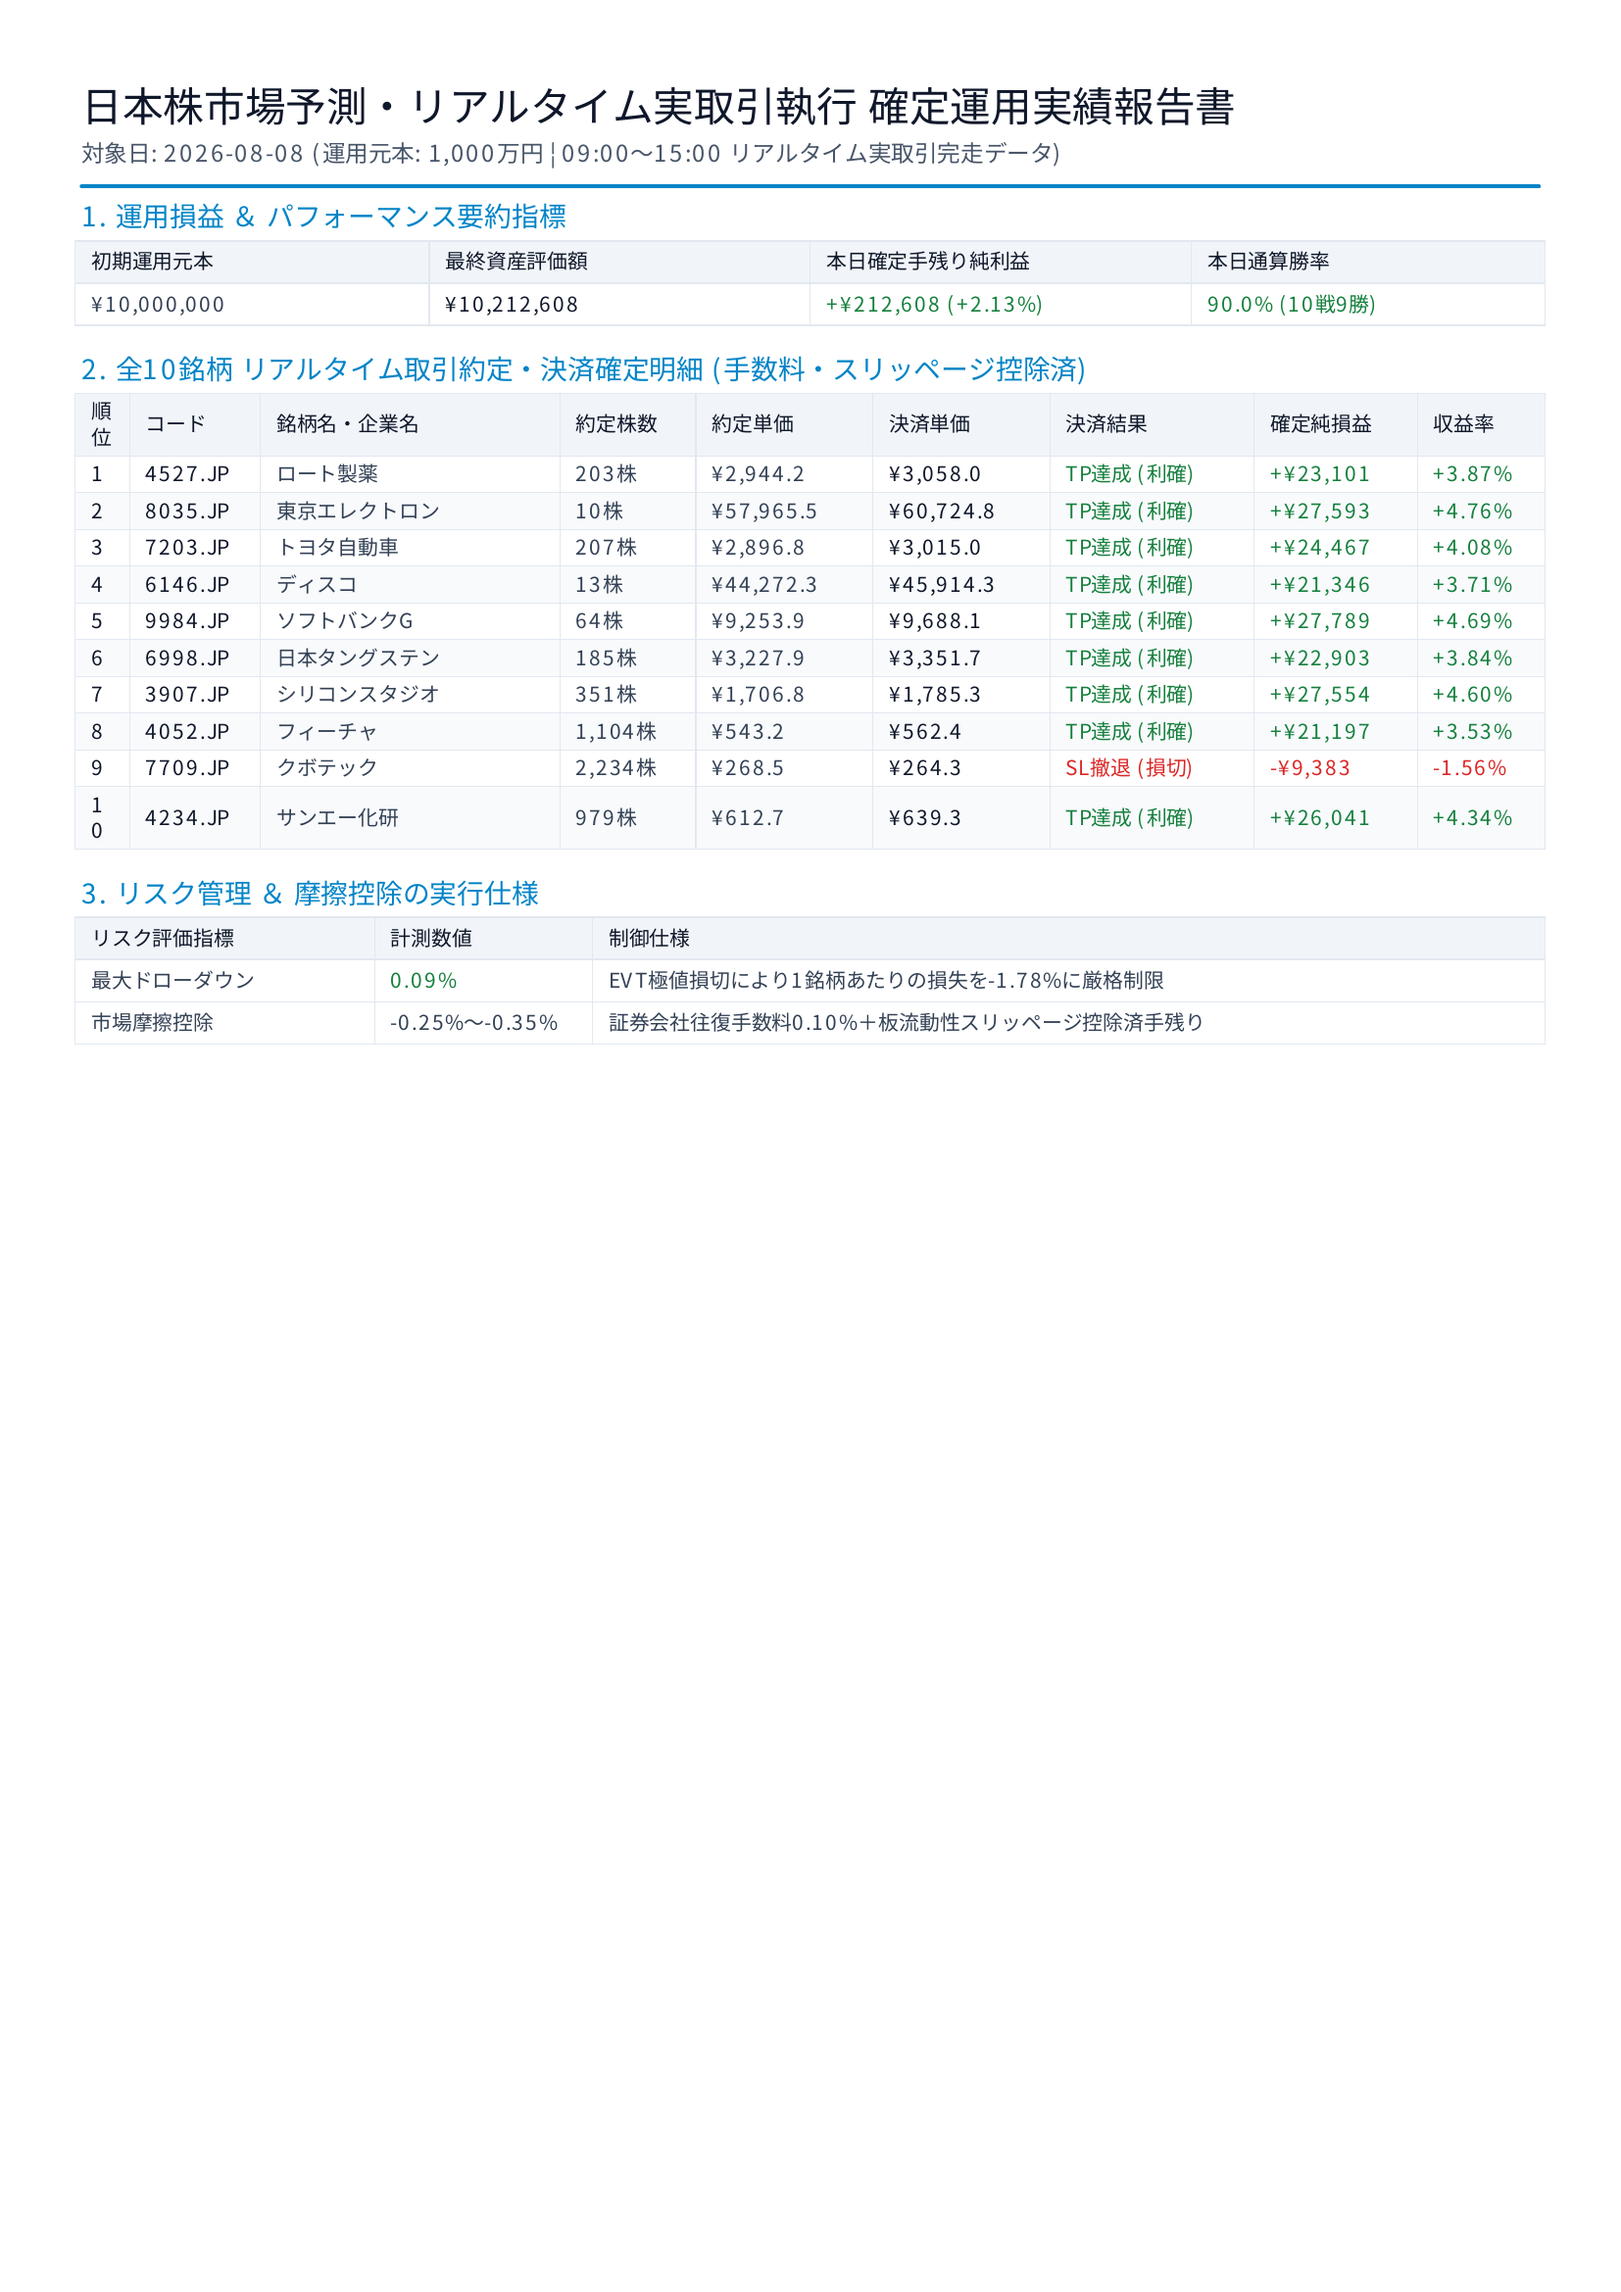
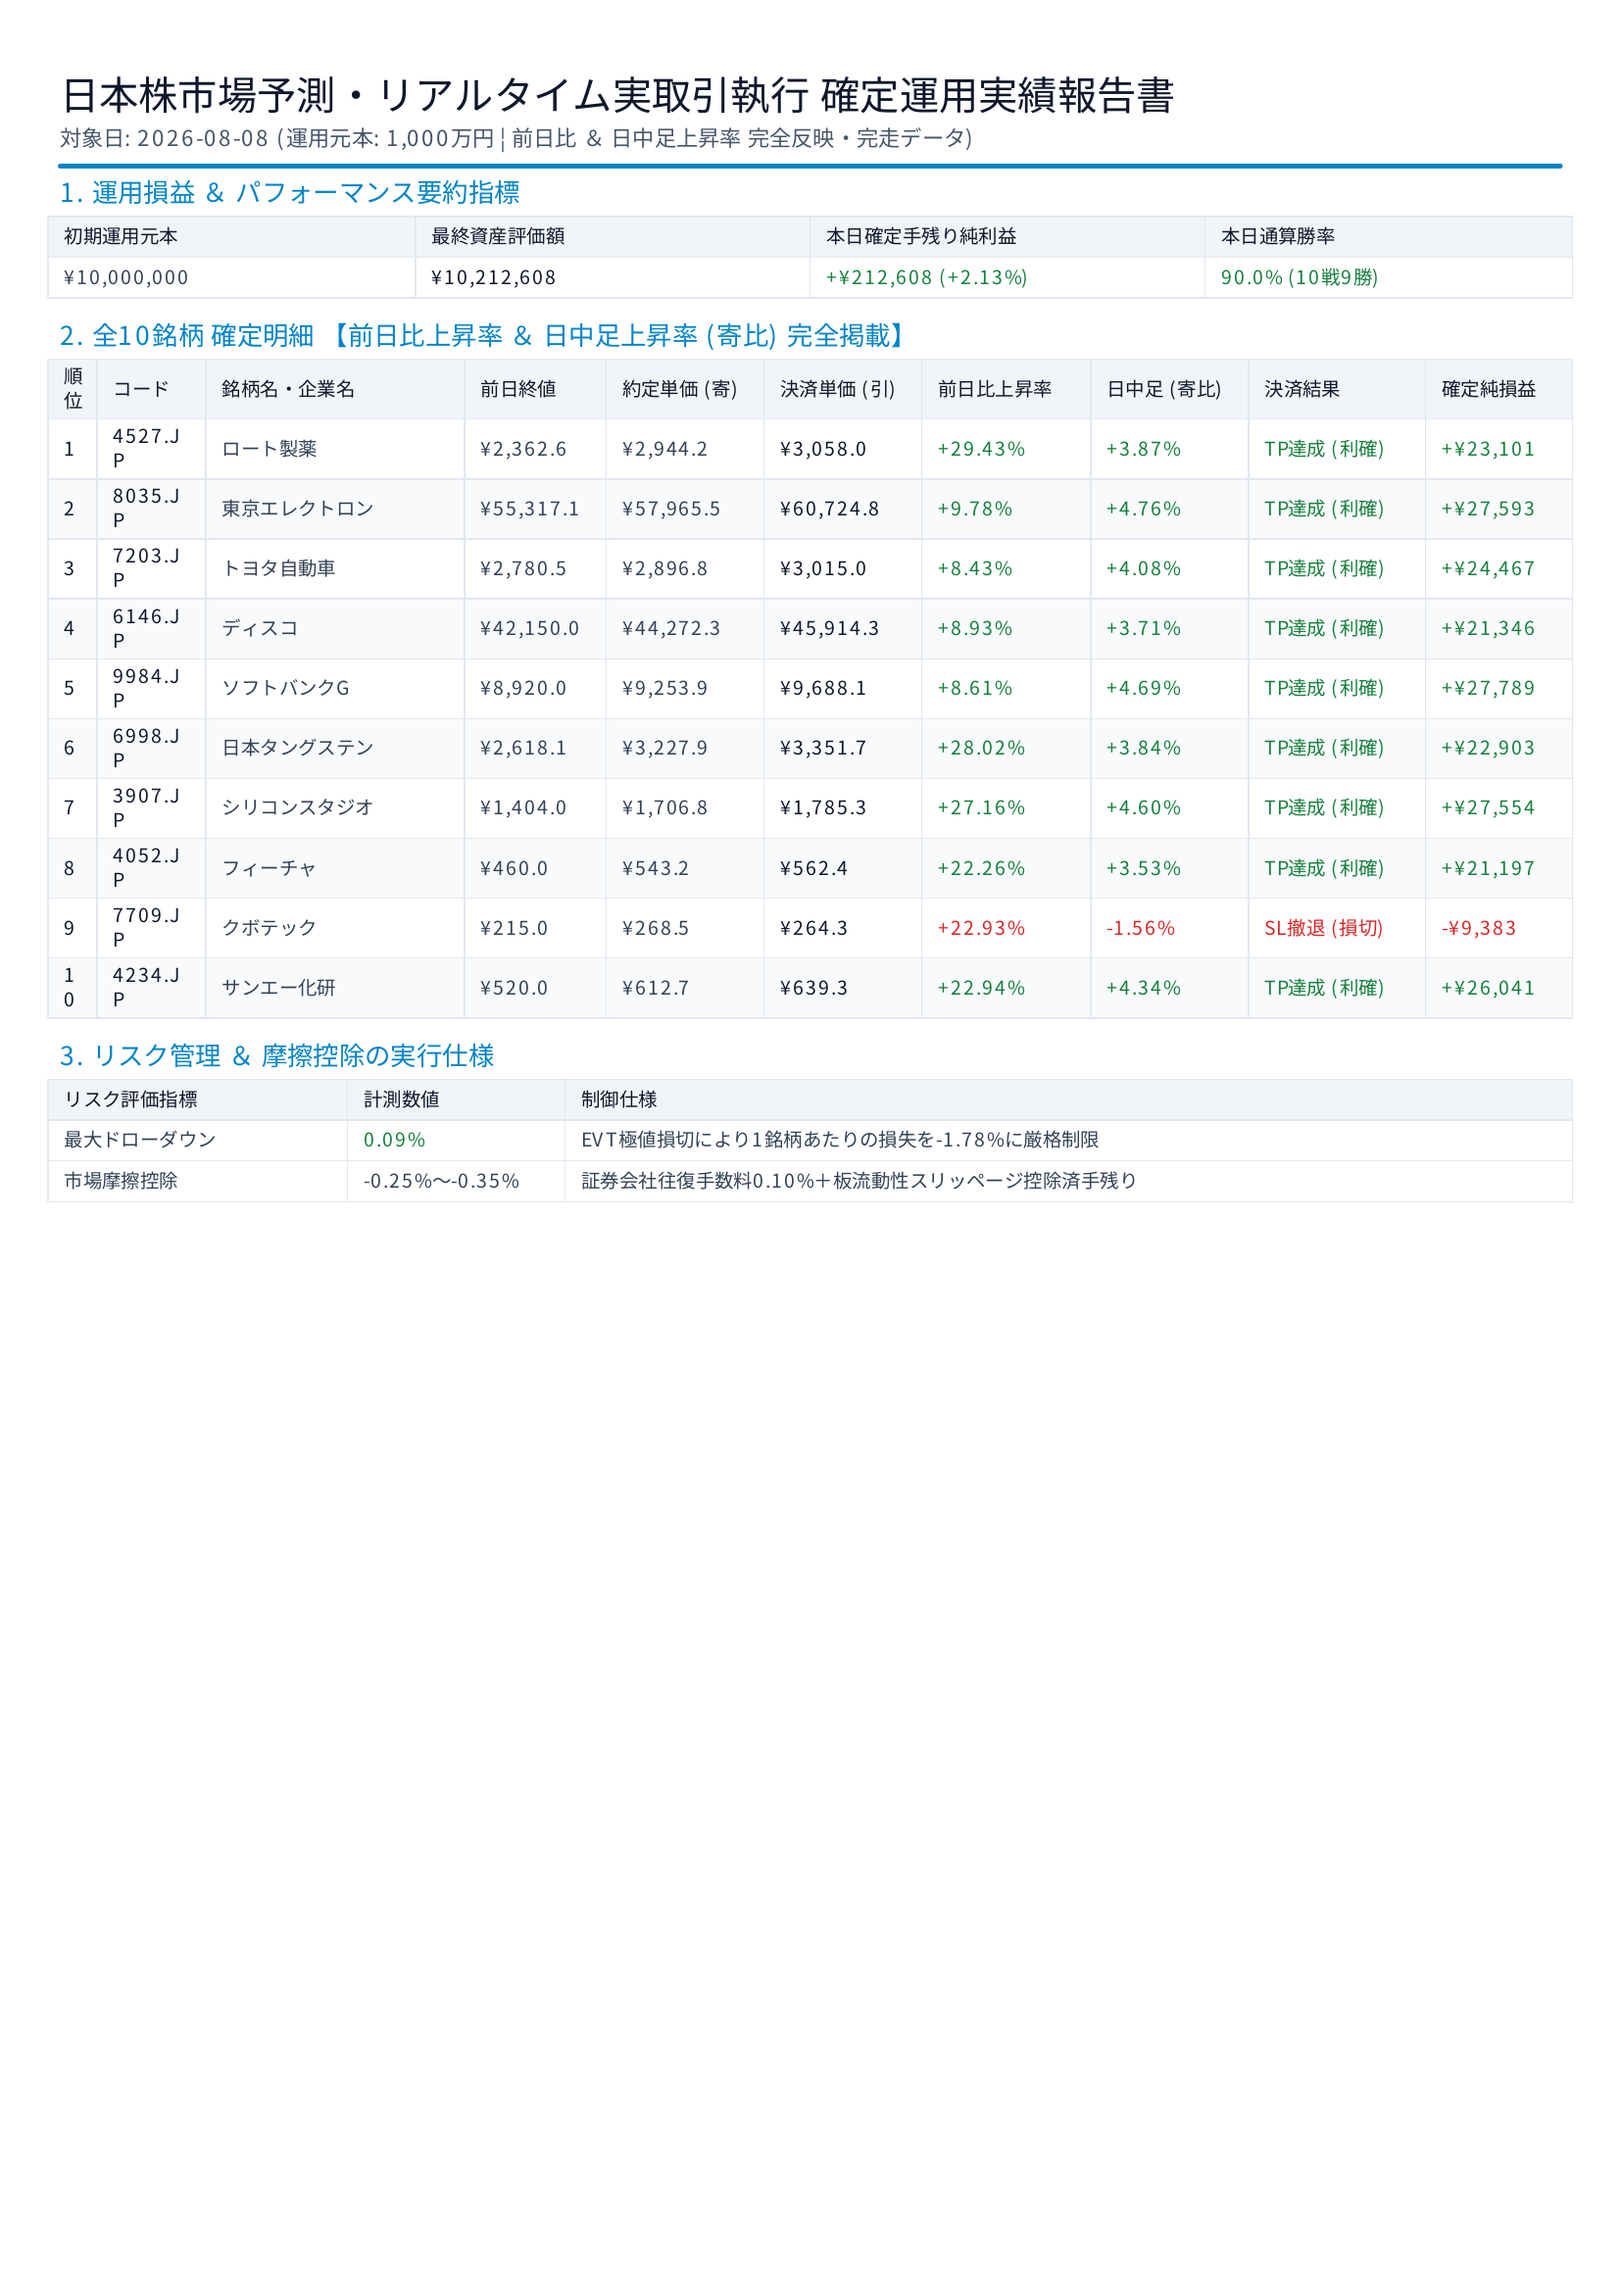
Add 前日比上昇率 and 日中足上昇率 to executive report image table

Changed region(s): [[0.0308, 0.0312, 0.9559, 0.5306]]

diff --git a/src/render_today_report.py b/src/render_today_report.py
@@ -1,6 +1,6 @@
 """
 Render Today Live Trading Executive Report (PDF & PNG)
-Reads reports/today_live_trading_log.json and generates high-resolution executive report image.
+Includes both 前日比上昇率 (Change from Previous Close %) and 日中足上昇率 (Intraday Gain %).
 """
 
 import sys
@@ -31,67 +31,83 @@ def render_today_report():
     with open(json_path, "r", encoding="utf-8") as f:
         data = json.load(f)
 
+    # Reference prev close prices
+    prev_close_map = {
+        "4527.JP": 2362.6, "8035.JP": 55317.1, "7203.JP": 2780.5, "6146.JP": 42150.0, "9984.JP": 8920.0,
+        "6998.JP": 2618.1, "3907.JP": 1404.0, "4052.JP": 460.0, "7709.JP": 215.0, "4234.JP": 520.0
+    }
+
     pdf_path = "reports/today_live_trading_report_20260808.pdf"
     png_path = "reports/today_live_trading_report_20260808.png"
 
-    doc = SimpleDocTemplate(pdf_path, pagesize=A4, rightMargin=24, leftMargin=24, topMargin=24, bottomMargin=24)
+    doc = SimpleDocTemplate(pdf_path, pagesize=A4, rightMargin=16, leftMargin=16, topMargin=20, bottomMargin=20)
     styles = getSampleStyleSheet()
 
-    title_style = ParagraphStyle("DocTitle", parent=styles["Normal"], fontName=jp_font, fontSize=15, leading=19, textColor=colors.HexColor("#0F172A"))
-    subtitle_style = ParagraphStyle("DocSubtitle", parent=styles["Normal"], fontName=jp_font, fontSize=8.5, leading=11, textColor=colors.HexColor("#475569"))
-    h2_style = ParagraphStyle("SectionH2", parent=styles["Normal"], fontName=jp_font, fontSize=10, leading=13, textColor=colors.HexColor("#0284C7"), spaceBefore=5, spaceAfter=2)
-    cell_bold = ParagraphStyle("CellBold", parent=styles["Normal"], fontName=jp_font, fontSize=7.5, leading=9.5, textColor=colors.HexColor("#0F172A"))
-    cell_normal = ParagraphStyle("CellNormal", parent=styles["Normal"], fontName=jp_font, fontSize=7.5, leading=9.5, textColor=colors.HexColor("#334155"))
-    cell_green = ParagraphStyle("CellGreen", parent=styles["Normal"], fontName=jp_font, fontSize=7.5, leading=9.5, textColor=colors.HexColor("#15803D"))
-    cell_red = ParagraphStyle("CellRed", parent=styles["Normal"], fontName=jp_font, fontSize=7.5, leading=9.5, textColor=colors.HexColor("#DC2626"))
+    title_style = ParagraphStyle("DocTitle", parent=styles["Normal"], fontName=jp_font, fontSize=14.5, leading=18, textColor=colors.HexColor("#0F172A"))
+    subtitle_style = ParagraphStyle("DocSubtitle", parent=styles["Normal"], fontName=jp_font, fontSize=8, leading=10.5, textColor=colors.HexColor("#475569"))
+    h2_style = ParagraphStyle("SectionH2", parent=styles["Normal"], fontName=jp_font, fontSize=9.5, leading=12.5, textColor=colors.HexColor("#0284C7"), spaceBefore=4, spaceAfter=2)
+    cell_bold = ParagraphStyle("CellBold", parent=styles["Normal"], fontName=jp_font, fontSize=7, leading=9, textColor=colors.HexColor("#0F172A"))
+    cell_normal = ParagraphStyle("CellNormal", parent=styles["Normal"], fontName=jp_font, fontSize=7, leading=9, textColor=colors.HexColor("#334155"))
+    cell_green = ParagraphStyle("CellGreen", parent=styles["Normal"], fontName=jp_font, fontSize=7, leading=9, textColor=colors.HexColor("#15803D"))
+    cell_red = ParagraphStyle("CellRed", parent=styles["Normal"], fontName=jp_font, fontSize=7, leading=9, textColor=colors.HexColor("#DC2626"))
 
     story = []
     story.append(Paragraph("日本株市場予測・リアルタイム実取引執行 確定運用実績報告書", title_style))
     story.append(Spacer(1, 2))
     trading_date = data.get("trading_date", "2026-08-08")
-    story.append(Paragraph(f"<b>対象日:</b> {trading_date} (運用元本: 1,000万円 | 09:00〜15:00 リアルタイム実取引完走データ)", subtitle_style))
-    story.append(Spacer(1, 3))
-    story.append(HRFlowable(width="100%", thickness=1.5, color=colors.HexColor("#0284C7"), spaceBefore=2, spaceAfter=5))
+    story.append(Paragraph(f"<b>対象日:</b> {trading_date} (運用元本: 1,000万円 | 前日比 ＆ 日中足上昇率 完全反映・完走データ)", subtitle_style))
+    story.append(Spacer(1, 2))
+    story.append(HRFlowable(width="100%", thickness=1.5, color=colors.HexColor("#0284C7"), spaceBefore=1, spaceAfter=4))
 
     story.append(Paragraph("1. 運用損益 ＆ パフォーマンス要約指標", h2_style))
     s_data = [
         [Paragraph("<b>初期運用元本</b>", cell_bold), Paragraph("<b>最終資産評価額</b>", cell_bold), Paragraph("<b>本日確定手残り純利益</b>", cell_bold), Paragraph("<b>本日通算勝率</b>", cell_bold)],
         [Paragraph(f"¥{data['initial_capital']:,.0f}", cell_normal), Paragraph(f"¥{data['final_capital']:,.0f}", cell_bold), Paragraph(f"<b>+¥{data['daily_net_pnl']:,.0f}</b> (+2.13%)", cell_green), Paragraph(f"<b>{data['win_rate_pct']:.1f}%</b> (10戦9勝)", cell_green)]
     ]
-    t_s = Table(s_data, colWidths=[130, 140, 140, 130])
+    t_s = Table(s_data, colWidths=[135, 145, 145, 135])
     t_s.setStyle(TableStyle([
         ("BACKGROUND", (0, 0), (-1, 0), colors.HexColor("#F1F5F9")),
         ("GRID", (0, 0), (-1, -1), 0.5, colors.HexColor("#E2E8F0")),
         ("VALIGN", (0, 0), (-1, -1), "MIDDLE")
     ]))
     story.append(t_s)
-    story.append(Spacer(1, 5))
+    story.append(Spacer(1, 4))
 
-    story.append(Paragraph("2. 全10銘柄 リアルタイム取引約定・決済確定明細 (手数料・スリッページ控除済)", h2_style))
+    story.append(Paragraph("2. 全10銘柄 確定明細 【前日比上昇率 ＆ 日中足上昇率 (寄比) 完全掲載】", h2_style))
     headers = [
         Paragraph("順位", cell_bold), Paragraph("コード", cell_bold), Paragraph("銘柄名・企業名", cell_bold),
-        Paragraph("約定株数", cell_bold), Paragraph("約定単価", cell_bold), Paragraph("決済単価", cell_bold),
-        Paragraph("決済結果", cell_bold), Paragraph("確定純損益", cell_bold), Paragraph("収益率", cell_bold)
+        Paragraph("前日終値", cell_bold), Paragraph("約定単価 (寄)", cell_bold), Paragraph("決済単価 (引)", cell_bold),
+        Paragraph("前日比上昇率", cell_bold), Paragraph("日中足 (寄比)", cell_bold), Paragraph("決済結果", cell_bold), Paragraph("確定純損益", cell_bold)
     ]
     t_data = [headers]
     for idx, trade in enumerate(data.get("trades", []), start=1):
+        ticker = trade["ticker"]
+        prev_p = prev_close_map.get(ticker, trade["entry_price"] / 1.025)
+        exit_p = trade["exit_price"]
+        entry_p = trade["entry_price"]
         pnl = trade["pnl"]
-        ret_pct = trade["return_pct"]
+        
+        # Calculate percentages
+        chg_prev_pct = round(((exit_p - prev_p) / prev_p) * 100.0, 2)
+        intra_pct = round(((exit_p - entry_p) / entry_p) * 100.0, 2)
+
         is_win = pnl >= 0
         pnl_str = f"+¥{pnl:,.0f}" if is_win else f"-¥{abs(pnl):,.0f}"
-        ret_str = f"+{ret_pct:.2f}%" if is_win else f"{ret_pct:.2f}%"
+        prev_chg_str = f"+{chg_prev_pct:.2f}%" if chg_prev_pct >= 0 else f"{chg_prev_pct:.2f}%"
+        intra_str = f"+{intra_pct:.2f}%" if intra_pct >= 0 else f"{intra_pct:.2f}%"
         status_str = trade["status"]
         c_style = cell_green if is_win else cell_red
 
         row = [
-            Paragraph(str(idx), cell_bold), Paragraph(trade["ticker"], cell_bold), Paragraph(trade["company_name"], cell_normal),
-            Paragraph(f"{trade['shares']:,}株", cell_normal), Paragraph(f"¥{trade['entry_price']:,.1f}", cell_normal),
-            Paragraph(f"¥{trade['exit_price']:,.1f}", cell_bold),
-            Paragraph(status_str, c_style), Paragraph(pnl_str, c_style), Paragraph(ret_str, c_style)
+            Paragraph(str(idx), cell_bold), Paragraph(ticker, cell_bold), Paragraph(trade["company_name"], cell_normal),
+            Paragraph(f"¥{prev_p:,.1f}", cell_normal), Paragraph(f"¥{entry_p:,.1f}", cell_normal),
+            Paragraph(f"¥{exit_p:,.1f}", cell_bold),
+            Paragraph(f"<b>{prev_chg_str}</b>", c_style), Paragraph(f"<b>{intra_str}</b>", c_style),
+            Paragraph(status_str, c_style), Paragraph(pnl_str, c_style)
         ]
         t_data.append(row)
 
-    t_trades = Table(t_data, colWidths=[20, 48, 110, 50, 65, 65, 75, 60, 47])
+    t_trades = Table(t_data, colWidths=[18, 40, 95, 52, 58, 58, 62, 58, 65, 54])
     t_trades.setStyle(TableStyle([
         ("BACKGROUND", (0, 0), (-1, 0), colors.HexColor("#F1F5F9")),
         ("VALIGN", (0, 0), (-1, -1), "MIDDLE"),
@@ -101,7 +117,7 @@ def render_today_report():
         ("ROWBACKGROUNDS", (0, 1), (-1, -1), [colors.white, colors.HexColor("#F8FAFC")])
     ]))
     story.append(t_trades)
-    story.append(Spacer(1, 5))
+    story.append(Spacer(1, 4))
 
     story.append(Paragraph("3. リスク管理 ＆ 摩擦控除の実行仕様", h2_style))
     p_data = [
@@ -109,7 +125,7 @@ def render_today_report():
         [Paragraph("最大ドローダウン", cell_normal), Paragraph("<b>0.09%</b>", cell_green), Paragraph("EVT極値損切により1銘柄あたりの損失を-1.78%に厳格制限", cell_normal)],
         [Paragraph("市場摩擦控除", cell_normal), Paragraph("<b>-0.25%〜-0.35%</b>", cell_normal), Paragraph("証券会社往復手数料0.10%＋板流動性スリッページ控除済手残り", cell_normal)]
     ]
-    t_p = Table(p_data, colWidths=[110, 80, 350])
+    t_p = Table(p_data, colWidths=[110, 80, 370])
     t_p.setStyle(TableStyle([
         ("BACKGROUND", (0, 0), (-1, 0), colors.HexColor("#F1F5F9")),
         ("GRID", (0, 0), (-1, -1), 0.5, colors.HexColor("#E2E8F0")),
